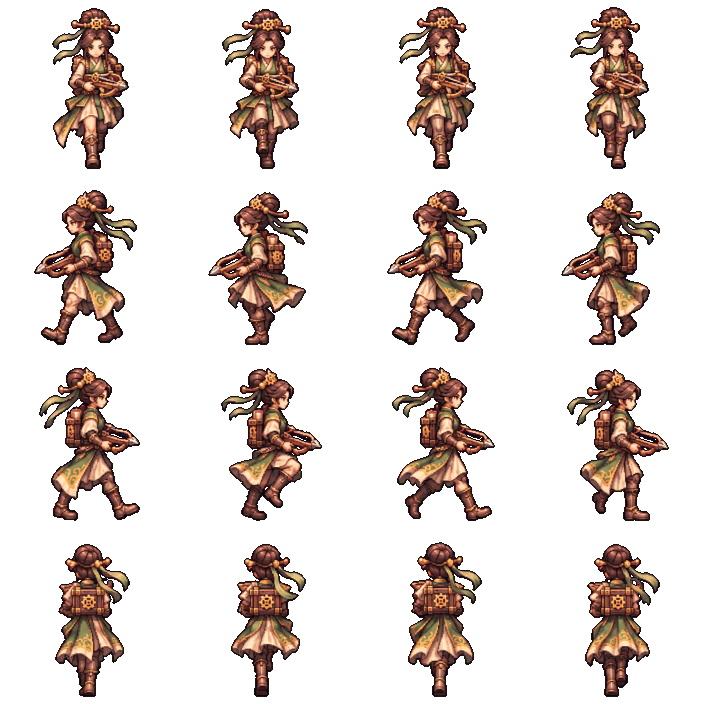
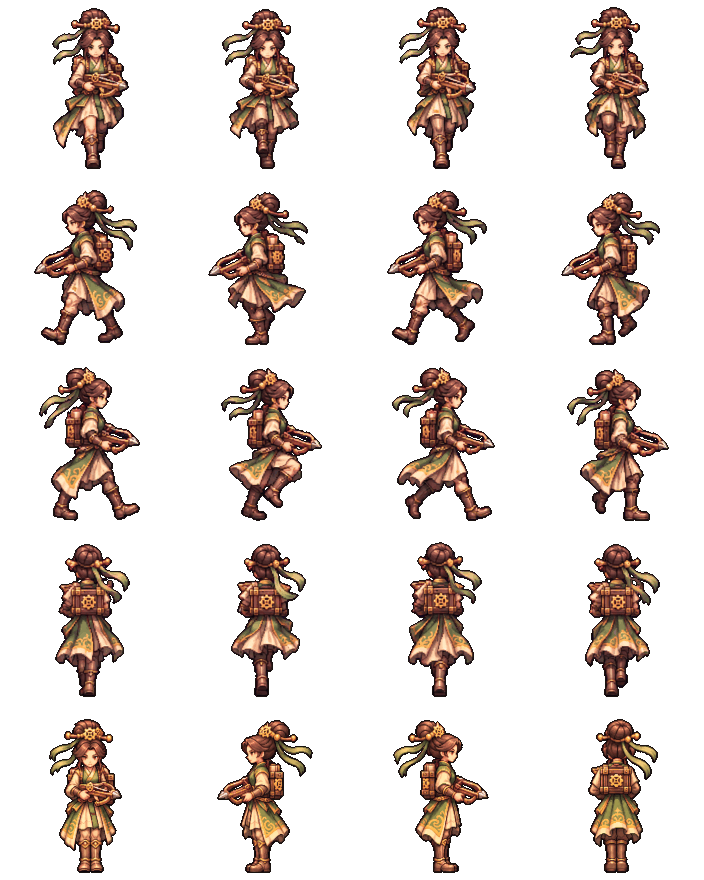
修：v2 人物停下后侧面仍是迈步姿势（两脚分开）
- 原因：ChatGPT 画的走路循环第 0 帧是迈步帧，全游戏停步都用 <方向>_0。
- ArtStyle.rotateV2StandFrames：每个方向量脚底一带的横向跨度，取最并拢的那一帧，把该行帧名循环平移让它成为 _0
  （走路循环顺序不变）；并给每个方向加 <方向>_stand。武将在 BootScene 里处理，兵种 / 敌军在 regridV2 里处理（只动行走 / 奔跑表）。
- 黄月英、孙尚香的走路循环里没有并拢帧：各补一张 v2 站立图（ChatGPT，2×2），拼成行走图第 5 行，_stand 取第 5 行；原 4 行图备份在 originals/。
- Player 停步 / 转身 / 选将切图改用 _stand（没有就用 _0）；test-walk-anim 接受 _stand 作站立帧。
- 验证：12 将朝右停步截图全部双脚收拢（assets/review/artv2/stand-12.png）；test-walk-anim 22/22；artv2-troops 31/31；
  artv2-enemies army 29/29；artv2-compare（黄忠 / 黄月英 / 孙尚香 / 赵云）21/21；tsc 通过。

diff --git a/src/entities/Player.ts b/src/entities/Player.ts
@@ -96,6 +96,8 @@ export class Player {
   /** 行走帧整格的显示高度（逻辑像素）。v2 整格 88（原生 176，全屏 1080p 下像素 1:1），v1 为 66。 */
   private get targetHeight(): number { return isV2Texture(this.walkSheet) ? V2_WALK_DISPLAY : 66; }
   /** 行走帧纵向锚点：v1 居中；v2 让脚底仍落在中心下方 31 像素。 */
+  /** 停步帧：v2 行走图有 <方向>_stand（双脚并拢的站立帧，见 ArtStyle.rotateV2StandFrames），否则用 <方向>_0。 */
+  private standFrame(key: string, dir: string): string { const t = this.scene.textures.get(key); return t.has(`${dir}_stand`) ? `${dir}_stand` : `${dir}_0`; }
   private get walkOriginY(): number { return isV2Texture(this.walkSheet) ? V2_WALK_ORIGIN_Y : .5; }
   /** 「主将」标记离精灵中心的高度。 */
   private get markerLift(): number { return isV2Texture(this.walkSheet) ? V2_MARKER_LIFT : 38; }
@@ -222,7 +224,7 @@ export class Player {
     this.faceLeft = dir === 'left';
     if (this.playAction('attack', dir)) return;
     if (this.scene.textures.exists(this.walkSheet) && this.scene.textures.get(this.walkSheet).has(`${dir}_0`)) {
-      this.sprite.setTexture(visualTextureKey(this.scene,this.walkSheet), `${dir}_0`);
+      const key = visualTextureKey(this.scene,this.walkSheet); this.sprite.setTexture(key, this.standFrame(key, dir));
     }
   }
 
@@ -267,7 +269,7 @@ export class Player {
       if (a) {
         // 动作结束：站着不动时行走层不会换帧，须主动切回当前朝向的站立帧
         this.action = null;
-        if (this.scene.textures.exists(this.walkSheet)) { this.sprite.setTexture(visualTextureKey(this.scene, this.walkSheet), `${this.facing}_0`).setFlipX(false); this.applyTextureScale(moving); }
+        if (this.scene.textures.exists(this.walkSheet)) { const key = visualTextureKey(this.scene, this.walkSheet); this.sprite.setTexture(key, this.standFrame(key, this.facing)).setFlipX(false); this.applyTextureScale(moving); }
       }
       if (moving || !set.idle?.length || this.facing !== 'down') return false;
       frame = set.idle[Math.floor(now / IDLE_FRAME_MS) % set.idle.length];
@@ -314,7 +316,7 @@ export class Player {
     // 立刻切到该武将的待机帧，避免进战斗先闪一下赵云
     try {
       if (this.scene.textures.get(key).has('down_0')) {
-        this.sprite.setTexture(visualTextureKey(this.scene,key), 'down_0');
+        this.sprite.setTexture(visualTextureKey(this.scene,key), this.standFrame(visualTextureKey(this.scene,key), 'down'));
         this.applyTextureScale();
       }
     } catch {
@@ -339,7 +341,7 @@ export class Player {
       }
     } else if (sheet) {
       // 停下：四个方向都回到站立帧（以前左 / 右 / 上会停在跨步帧上）
-      const key = visualTextureKey(this.scene, this.walkSheet), name = `${this.facing}_0`;
+      const key = visualTextureKey(this.scene, this.walkSheet), name = this.standFrame(key, this.facing);
       if (this.sprite.texture.key !== key || this.sprite.frame.name !== name) this.sprite.setTexture(key, name);
     } else if (!hasFrames && this.sprite.texture.key !== this.charTexture) {
       this.sprite.setTexture(this.charTexture);

diff --git a/src/systems/ArtStyle.ts b/src/systems/ArtStyle.ts
@@ -181,6 +181,41 @@ export function regridV2(scene: Phaser.Scene, key: string): boolean {
   });
   // 旧切帧删掉后 firstFrame 仍指向已不存在的 "0"：不带帧名的 setTexture(key)（如 Enemy.spawn 用 def.texture）会取到 undefined 帧而崩溃
   t.firstFrame = 'down_0';
+  if (/walk|run/.test(key)) rotateV2StandFrames(scene, key);
   t.setFilter(v2Filter(RENDER_SCALE));
   return true;
+}
+
+/**
+ * v2 行走图的站立帧：ChatGPT 画的走路循环第 0 帧是迈步帧，停下时冻在它上面会「侧着站、两脚还分开」。
+ * 全游戏停步都用 <方向>_0，这里按每个方向找脚底一带（脚底线往上 8% 格高）横向跨度最小的那一帧（双脚并拢），
+ * 把该行的帧名循环平移，让它成为 _0；走路循环顺序不变。只用于行走 / 奔跑表，攻击表不动。
+ */
+export function rotateV2StandFrames(scene: Phaser.Scene, key: string): number[] {
+  if (!isV2Texture(key) || !scene.textures.exists(key)) return [];
+  const t = scene.textures.get(key), src = t.getSourceImage() as HTMLImageElement | HTMLCanvasElement;
+  const w = src.width, h = src.height, cell = w / 4, foot = cell - 8, band = Math.max(4, Math.round(cell * .08));
+  if (!cell || h < cell * 4) return [];
+  // 帧宽按 宽/4，行数可以是 4（只有走路）或 5（第 5 行是站立图）
+  let data: Uint8ClampedArray;
+  try {
+    const c = document.createElement('canvas'); c.width = w; c.height = h;
+    const g = c.getContext('2d', { willReadFrequently: true })!; g.drawImage(src, 0, 0); data = g.getImageData(0, 0, w, h).data;
+  } catch { return []; }
+  const span = (row: number, col: number): number => {
+    let lo = Infinity, hi = -Infinity;
+    for (let y = row * cell + foot - band; y <= row * cell + foot; y++) for (let x = col * cell; x < (col + 1) * cell; x++) if (data[(y * w + x) * 4 + 3] > 24) { if (x < lo) lo = x; if (x > hi) hi = x; }
+    return hi >= lo ? hi - lo : Infinity;
+  };
+  const shifts: number[] = [];
+  ['down', 'left', 'right', 'up'].forEach((dir, row) => {
+    let best = 0, min = Infinity;
+    for (let col = 0; col < 4; col++) { const s = span(row, col); if (s < min - 1) { min = s; best = col; } }
+    shifts.push(best);
+    for (let i = 0; i < 4; i++) { const name = `${dir}_${i}`; if (t.has(name)) t.remove(name); t.add(name, 0, ((i + best) % 4) * cell, row * cell, cell, cell); }
+    // <方向>_stand：图集有第 5 行（专门画的站立图，列 = 下 / 左 / 右 / 上）就用它，否则用选出的最并拢帧
+    const stand = `${dir}_stand`; if (t.has(stand)) t.remove(stand);
+    if (h >= cell * 5) t.add(stand, 0, row * cell, 4 * cell, cell, cell); else t.add(stand, 0, best * cell, row * cell, cell, cell);
+  });
+  return shifts;
 }

diff --git a/src/scenes/BootScene.ts b/src/scenes/BootScene.ts
@@ -8,7 +8,7 @@ import { GAME_WIDTH } from '../config';
 import { createGameTextures, createWalkPlaceholders, registerWalkSheet } from '../systems/TextureFactory';
 import { HERO_ACTION_FILES } from '../data/heroActions';
 import { applyHdHeroSheets } from '../systems/HdHeroSheets';
-import { applyArtStyleUrls, applyV2TroopFrames, isV2Texture } from '../systems/ArtStyle';
+import { applyArtStyleUrls, applyV2TroopFrames, isV2Texture, rotateV2StandFrames } from '../systems/ArtStyle';
 
 export class BootScene extends Phaser.Scene {
   private shellOnly=false;
@@ -229,6 +229,8 @@ export class BootScene extends Phaser.Scene {
     for(const key of ['huaxiong_walk','huaxiong_attack']){if(!this.textures.exists(key))continue;const t=this.textures.get(key);['down','left','right','up'].forEach((dir,row)=>{for(let col=0;col<4;col++)if(!t.has(dir+'_'+col))t.add(dir+'_'+col,0,col*128,row*128,128,128);});}
     createReadableTextures(this);
     applyHdHeroSheets(this, ['hero_walk_sheet', ...Object.keys(HERO_ACTION_FILES).map(k => k.replace(/_actions$/, '_walk_sheet'))], Object.keys(HERO_ACTION_FILES));
+    // 人物画风 v2：武将行走图的停步帧换成双脚并拢的那一帧（见 rotateV2StandFrames）
+    for (const key of ['hero_walk_sheet', ...Object.keys(HERO_ACTION_FILES).map(k => k.replace(/_actions$/, '_walk_sheet'))]) rotateV2StandFrames(this, key);
     // 人物画风 v2：兵种图集按 v2 格子重切帧（旧的 96 / 128×112 切法会切错）
     applyV2TroopFrames(this);
     const hint = document.getElementById('boot-hint');
